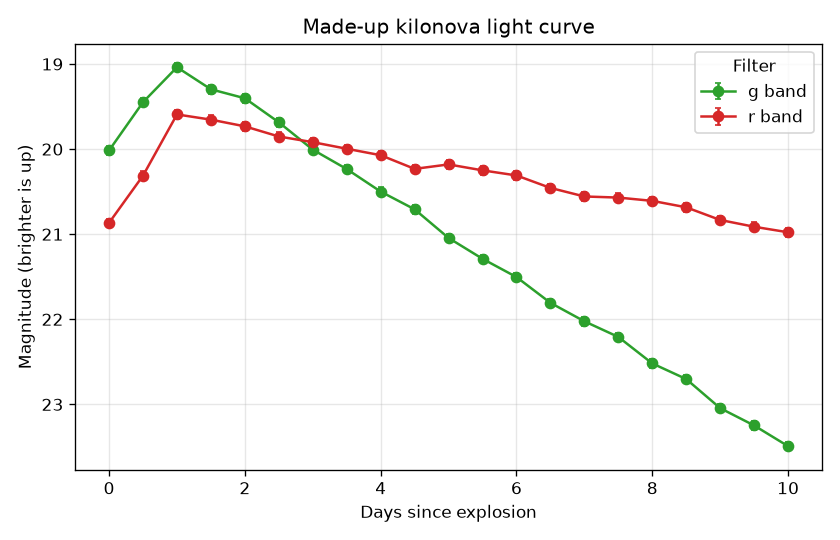
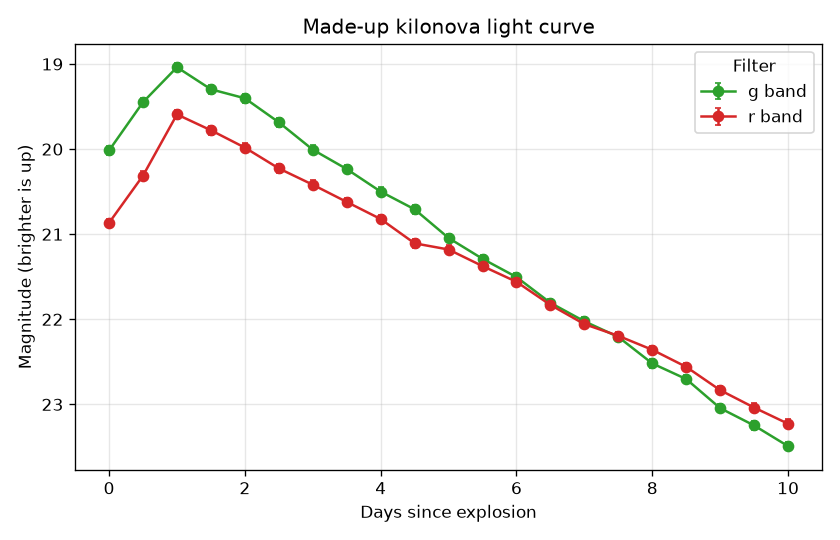
Speed up the demo r-band fade past the 0.3 mag/day cut
The v1 filter keeps "faster than 0.3 magnitudes per day". AT2017gfo
faded faster than that in r over its first week, so the made-up curve
now fades at 0.4 mag/day in r. g stays a little faster, so the source
still turns red. The example plot matches the new curve.

diff --git a/tests/test_inject.py b/tests/test_inject.py
@@ -8,8 +8,10 @@ Magnitudes are backwards from everyday charts: a bigger number is fainter.
 import numpy as np
 import pandas as pd
 
+from kilonova_hunter.filter import FADE_FASTER_THAN_MAG_PER_DAY
 from kilonova_hunter.inject import (
     _FILTERS,
+    PEAK_DAY,
     _brightness_without_noise,
     simulate_kilonova_light_curve,
 )
@@ -19,6 +21,17 @@ def _brightest_time(group: pd.DataFrame) -> float:
     """Return the time of the smallest magnitude in one filter."""
     row = group.loc[group["magnitude"].idxmin()]
     return float(row["time_days"])
+
+
+def _smooth_magnitudes(filter_name: str, times: np.ndarray) -> np.ndarray:
+    """Return one filter's magnitudes with the random scatter left off."""
+    params = _FILTERS[filter_name]
+    return _brightness_without_noise(
+        times,
+        peak_mag=params["peak_mag"],
+        rise_per_day=params["rise_per_day"],
+        fade_per_day=params["fade_per_day"],
+    )
 
 
 def test_light_curve_has_both_filters() -> None:
@@ -31,24 +44,17 @@ def test_light_curve_has_both_filters() -> None:
 def test_noise_free_curve_peaks_at_one_day() -> None:
     """Without noise, both filters are brightest exactly one day after the explosion.
 
-    The public light curve adds random scatter on top of this shape. On the
-    r filter the fade just after day 1 is small, only a little larger than
-    that scatter, so the brightest noisy point sometimes lands at day 1.5
-    and, less often, at day 2. Checking the smooth curve keeps this test
-    about the shape we designed, not about one lucky random seed.
+    The public light curve adds random scatter on top of this shape. Checking
+    the smooth curve keeps this test about the shape we designed, not about
+    one particular random seed.
     """
     # Same half-day spacing the demo uses, and long enough to see the week-long fade.
     times = np.arange(0.0, 10.0 + 1e-9, 0.5)
-    for filter_name, params in _FILTERS.items():
-        magnitudes = _brightness_without_noise(
-            times,
-            peak_mag=params["peak_mag"],
-            rise_per_day=params["rise_per_day"],
-            fade_per_day=params["fade_per_day"],
-        )
+    for filter_name in _FILTERS:
+        magnitudes = _smooth_magnitudes(filter_name, times)
         # A smaller magnitude is brighter, so the peak is the minimum.
         peak_time = float(times[int(np.argmin(magnitudes))])
-        assert peak_time == 1.0, filter_name
+        assert peak_time == PEAK_DAY, filter_name
 
 
 def test_light_curve_peaks_then_fades() -> None:
@@ -73,24 +79,40 @@ def test_light_curve_peaks_then_fades() -> None:
         assert float(later.iloc[-1]) > float(later.iloc[0])
 
 
-def test_color_turns_redder() -> None:
-    """g minus r is larger at the end of the week than at the start.
+def test_color_turns_redder_after_peak() -> None:
+    """After the peak, g minus r grows on the smooth curve.
 
-    A growing g - r means the bluer filter has become faint compared with
-    the redder one, which is the cooling the filter will eventually look for.
+    A larger g minus r means the bluer filter has become faint compared
+    with the redder one. The check walks every step after the peak with
+    the noise left off, so it follows the fade rates themselves. It does
+    not pin the day the color crosses zero: a faster r fade moves that
+    crossing later, and one noisy seed could nudge a close pair of points
+    the wrong way.
     """
-    curve = simulate_kilonova_light_curve()
+    # From the peak through the rest of the demo, on the demo's half-day grid.
+    times = np.arange(PEAK_DAY, 10.0 + 1e-9, 0.5)
+    color = _smooth_magnitudes("g", times) - _smooth_magnitudes("r", times)
+    # Each later sample is redder than the one just before it.
+    assert np.all(np.diff(color) > 0.0)
 
-    def color_at(day: float) -> float:
-        """Return g magnitude minus r magnitude at one timestamp."""
-        magnitudes = {}
-        for filter_name in ("g", "r"):
-            group = curve[curve["filter"] == filter_name]
-            row = group.loc[group["time_days"] == day].iloc[0]
-            magnitudes[filter_name] = float(row["magnitude"])
-        return magnitudes["g"] - magnitudes["r"]
 
-    assert color_at(8.0) > color_at(1.0) > color_at(0.0)
+def test_noise_free_r_fade_beats_the_filter_cut() -> None:
+    """The smooth r curve fades faster than the v1 filter's cut.
+
+    The rate is how far the magnitude climbs over the first few days after
+    the peak, with the noise left off. A larger magnitude is fainter, so a
+    bigger rate is a faster fade. The cut is the named constant the filter
+    will use, so this test and that rule cannot drift apart.
+    """
+    # Three days is long enough to be "the first few days" and short enough
+    # to stay in the stretch AT2017gfo was fast in r.
+    times = np.arange(PEAK_DAY, PEAK_DAY + 3.0 + 1e-9, 0.5)
+    magnitudes = _smooth_magnitudes("r", times)
+    fade_per_day = float(magnitudes[-1] - magnitudes[0]) / float(times[-1] - times[0])
+    assert fade_per_day > FADE_FASTER_THAN_MAG_PER_DAY, (
+        f"r faded {fade_per_day:.3f} mag/day, "
+        f"which is not faster than {FADE_FASTER_THAN_MAG_PER_DAY}"
+    )
 
 
 def test_same_seed_redraws_the_same_curve() -> None:

diff --git a/src/kilonova_hunter/inject.py b/src/kilonova_hunter/inject.py
@@ -19,6 +19,19 @@ PEAK_DAY = 1.0
 # modest error bar is.
 NOISE_MAG = 0.05
 
+# How fast the demo fades in the r band after the peak, in magnitudes
+# per day. A larger number means the object gets fainter faster.
+#
+# 0.4 sits a comfortable step above the v1 rule of "faster than 0.3
+# magnitudes per day". AT2017gfo, the kilonova that came with the
+# neutron-star merger GW170817, faded faster than that in r over its
+# first week (about a magnitude per day near the start). Published
+# searches such as ZTFReST use the same idea: keep a candidate that
+# fades at least 0.3 magnitudes per day, and set aside slower
+# supernovae. The g band below is a little faster than this r value,
+# so g minus r still grows and the source turns red.
+R_FADE_PER_DAY = 0.40
+
 # peak_mag is the brightness at PEAK_DAY, before noise.
 # rise_per_day and fade_per_day are positive magnitudes of fading per day
 # on either side of the peak (the object is fainter as you move away).
@@ -26,7 +39,7 @@ NOISE_MAG = 0.05
 # time and the object looks redder. That reddening is the cooling debris.
 _FILTERS: dict[str, dict[str, float]] = {
     "g": {"peak_mag": 19.0, "rise_per_day": 1.0, "fade_per_day": 0.50},
-    "r": {"peak_mag": 19.6, "rise_per_day": 1.3, "fade_per_day": 0.15},
+    "r": {"peak_mag": 19.6, "rise_per_day": 1.3, "fade_per_day": R_FADE_PER_DAY},
 }
 
 

diff --git a/src/kilonova_hunter/filter.py b/src/kilonova_hunter/filter.py
@@ -6,11 +6,19 @@ to a short candidate list. It has nothing to do with Python's built-in
 
 Each rule is a yes-or-no check plus one sentence a newcomer can read, for
 example "faded faster than 0.3 magnitudes per day, which is what the debris
-of a neutron-star merger does." Sprint 3 chooses the thresholds from that
+of a neutron-star merger does." That 0.3 is
+``FADE_FASTER_THAN_MAG_PER_DAY``. Sprint 3 chooses the thresholds from that
 physics and records, for every candidate, which rules passed and which failed.
 """
 
 import pandas as pd
+
+# A candidate has to fade faster than this, in magnitudes per day.
+# 0.3 is the v1 cut. AT2017gfo faded faster than that in the r band
+# over its first week, and searches such as ZTFReST use a cut of 0.3
+# magnitudes per day to separate that kind of debris from slower
+# supernovae. Sprint 3 will apply this number as a yes-or-no check.
+FADE_FASTER_THAN_MAG_PER_DAY = 0.3
 
 
 def score_candidates(features: pd.DataFrame) -> pd.DataFrame:
